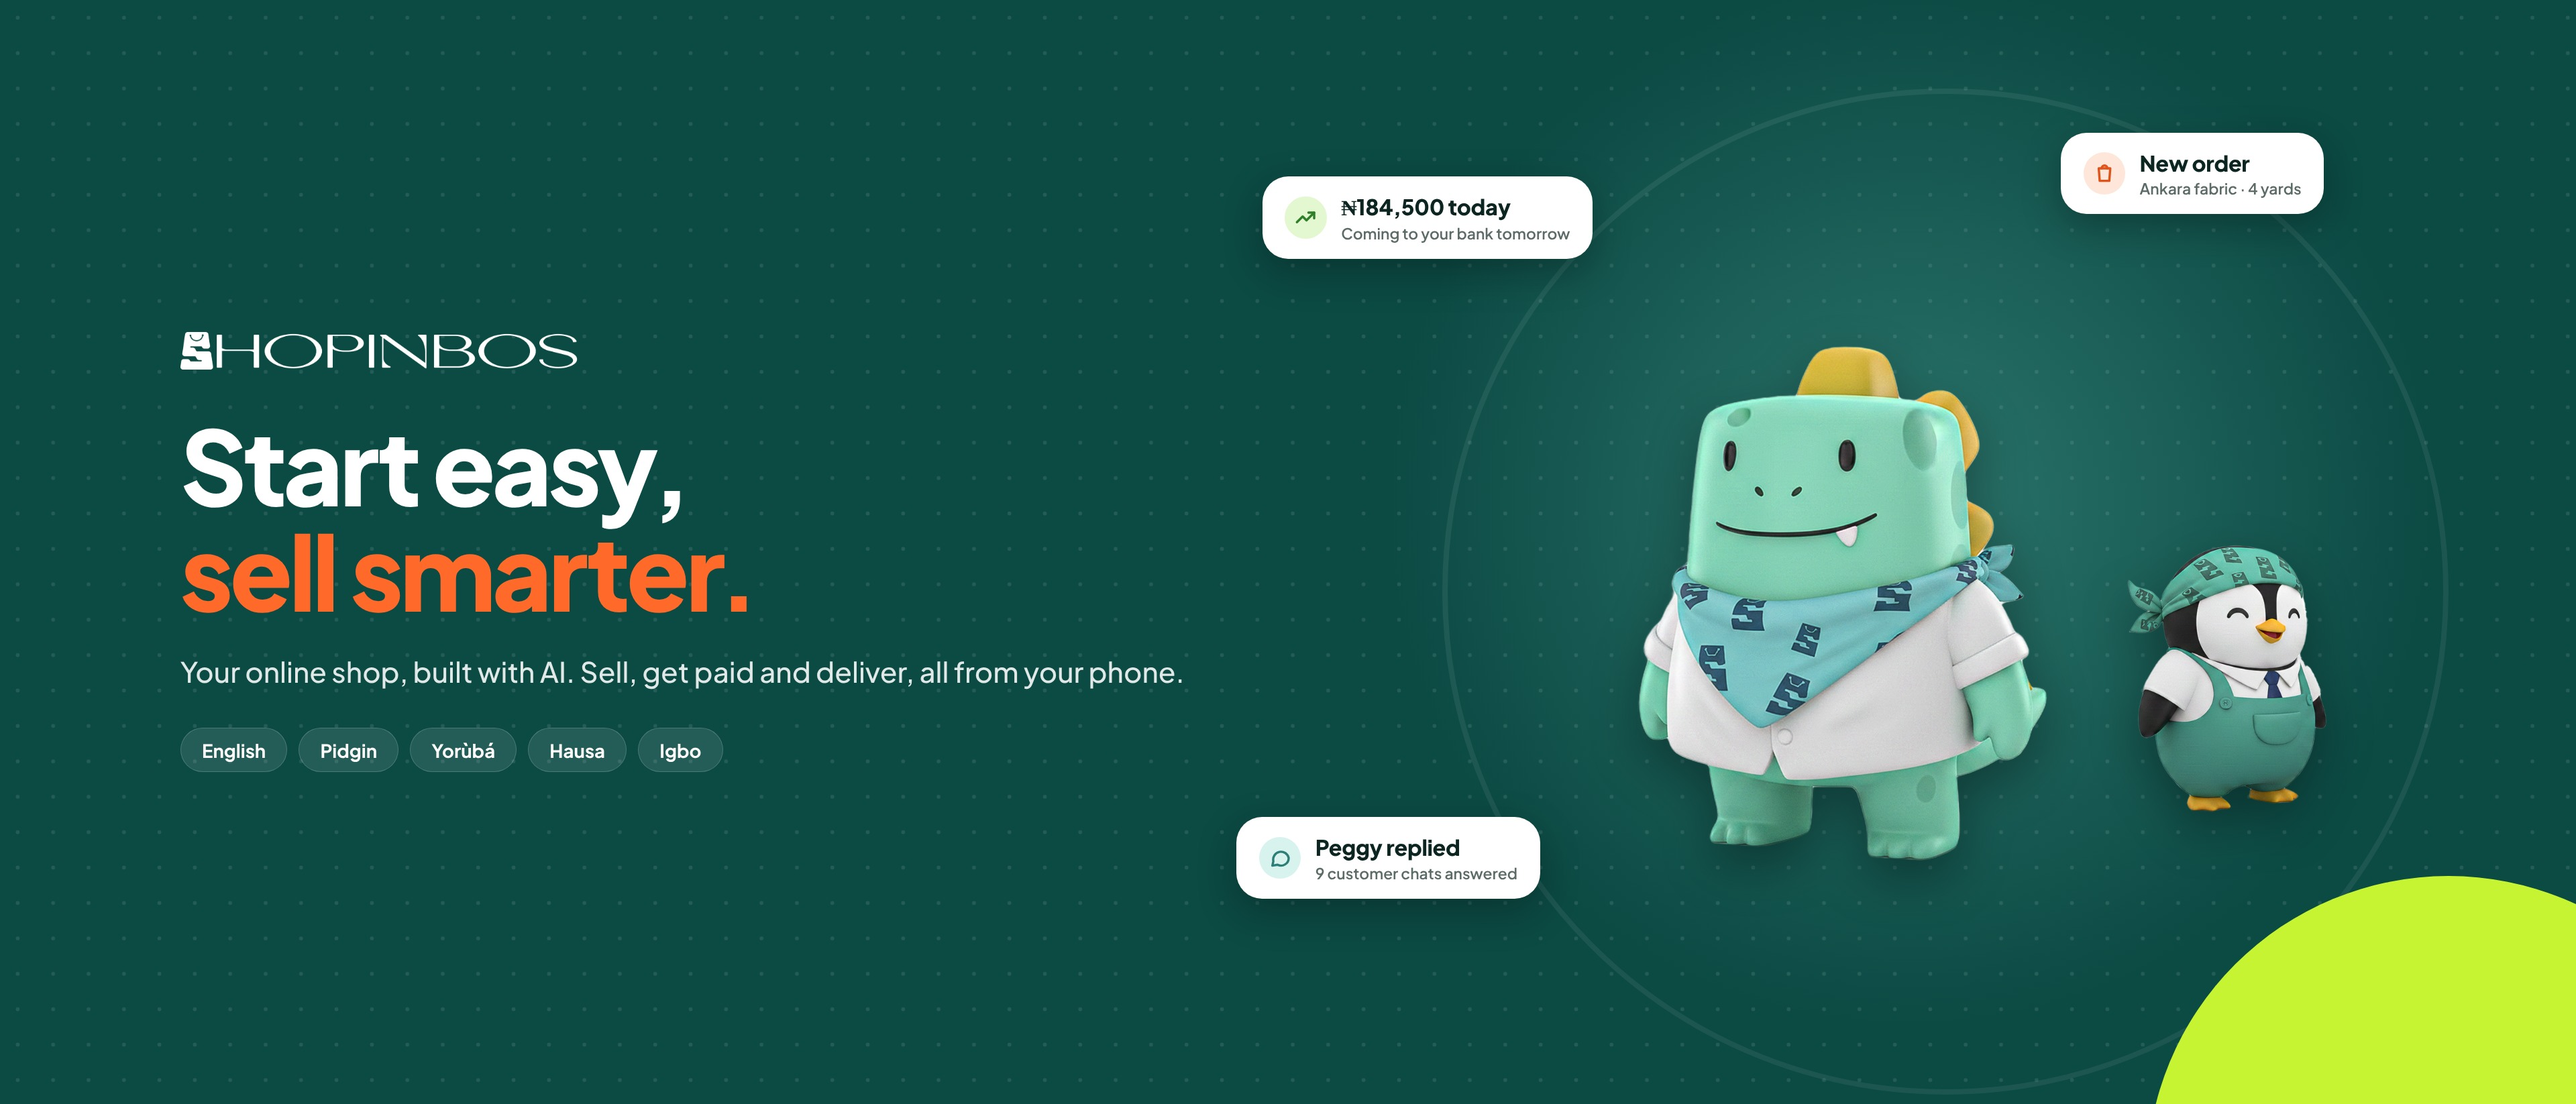
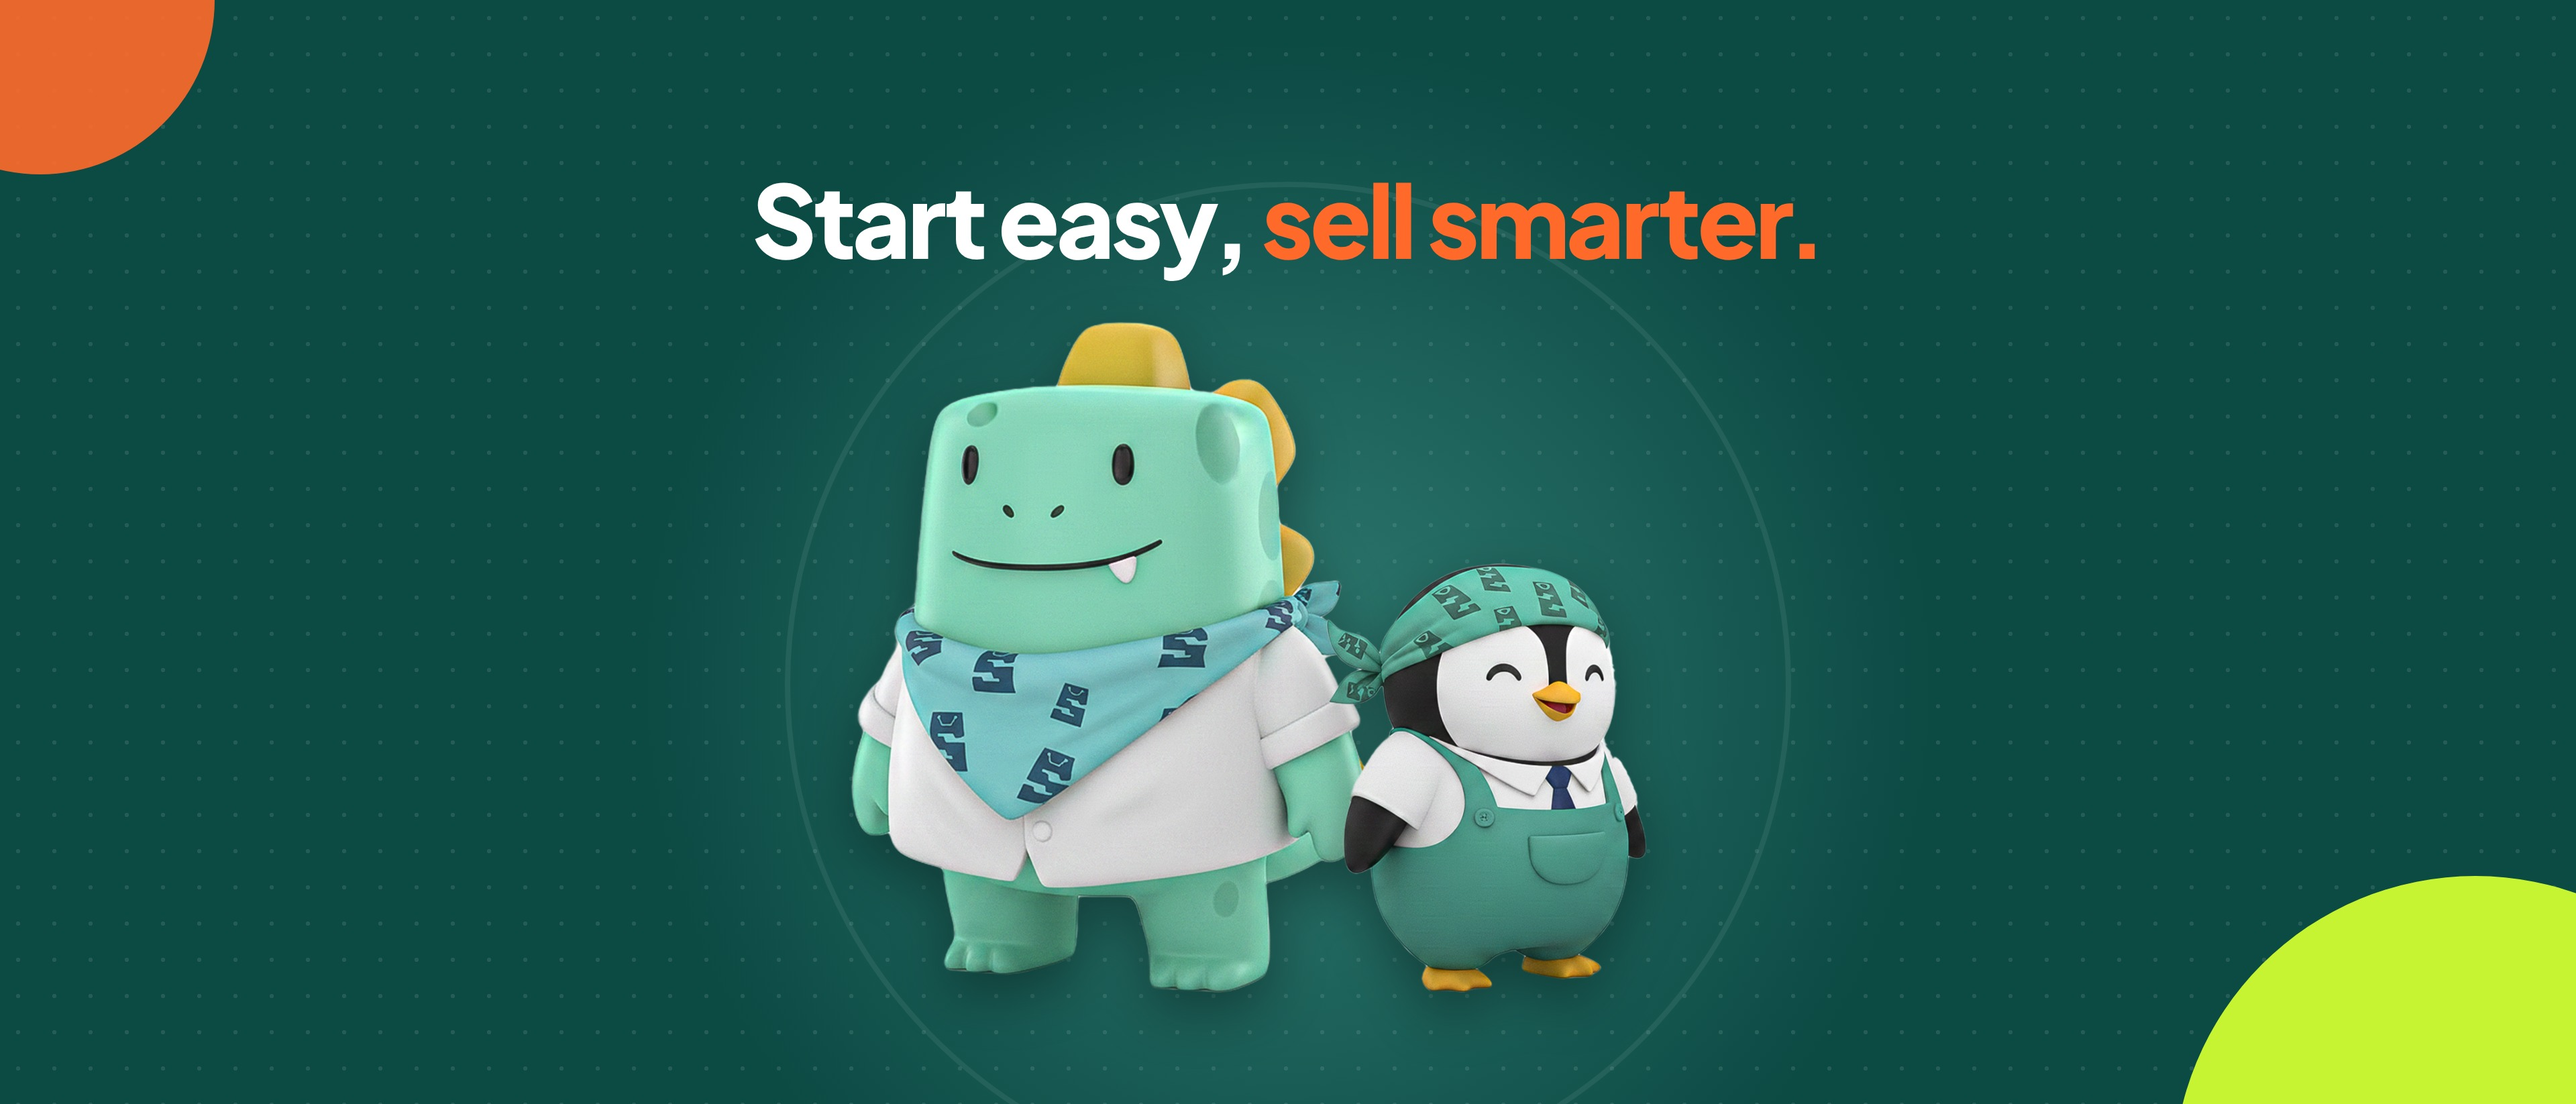
Rework App Store creative assets to follow Apple's asset guidance
Header: one centred idea (headline and mascots) and no prices. Search
results: three real app screens. Both are rendered from HTML by render.js.

Claude-Session: https://claude.ai/code/session_01Wc33bz48fMsssA7Hm89gzY

diff --git a/docs/app-store/creative/render.js b/docs/app-store/creative/render.js
@@ -1,24 +1,31 @@
-const {chromium}=require('playwright');const fs=require('fs');
-// Usage, from the repo root: node docs/app-store/creative/render.js <scratch dir with a/rex-1.png and a/peggy-3.png (cropped from public/brand/mascots)> <out dir>
-// Then convert the PNGs to JPG (no alpha) for App Store Connect.
-const S=process.argv[2], OUT=process.argv[3];
-const base=fs.readFileSync(__dirname+'/page.html','utf8').replace('REX','file://'+S+'/a/rex-1.png').replace('PEG','file://'+S+'/a/peggy-3.png');
-// u = 1% of height-ish unit; all positions as fractions of W/H
-const variants={
- 'header-3840x1646':{w:3840,h:1646,u:24,l:'7%',cw:'44%',
-  css:`#glow{width:1700px;height:1700px;left:52%;top:-6%}#ring{width:1500px;height:1500px;left:56%;top:8%}#lime{width:900px;height:900px;right:-260px;bottom:-560px}
-  #rex{height:1200px;left:56%;top:17%}#peg{height:780px;left:76.5%;top:38%}
-  #c1{left:49%;top:16%}#c2{left:80%;top:12%}#c3{left:48%;top:74%}`},
- 'search-results-3840x2560':{w:3840,h:2560,u:34,l:'7%',cw:'46%',
-  css:`#glow{width:2400px;height:2400px;left:46%;top:-10%}#ring{width:2100px;height:2100px;left:52%;top:10%}#lime{width:1300px;height:1300px;right:-400px;bottom:-800px}
-  #rex{height:1500px;left:53%;top:25%}#peg{height:980px;left:76%;top:42%}
-  #c1{left:52%;top:13%}#c2{left:78%;top:20%}#c3{left:51%;top:80%}`},
-};
-(async()=>{const b=await chromium.launch();
-for(const [name,v] of Object.entries(variants)){
- const p=await b.newPage({viewport:{width:v.w,height:v.h}});
- const html=base.replace('</style>',`:root{--w:${v.w}px;--h:${v.h}px;--u:${v.u}px;--l:${v.l};--cw:${v.cw}}${v.css}</style>`);
- fs.writeFileSync(OUT+'/'+name+'.html',html);
- await p.goto('file://'+OUT+'/'+name+'.html');await p.waitForTimeout(500);
- await p.screenshot({path:OUT+'/'+name+'.png'});await p.close();}
-await b.close();})();
+// Makes the App Store creative assets (App Store Connect › the version › Header / Search Results) from
+// header.html and search-results.html. Run from the repo root after changing either page or the screenshots:
+//   node docs/app-store/creative/render.js
+const { chromium } = require('playwright');
+const { execFileSync } = require('child_process');
+const path = require('path');
+
+const PAGES = [
+  ['header.html', 3840, 1646, 'header-3840x1646'],
+  ['search-results.html', 3840, 2560, 'search-results-3840x2560'],
+];
+
+(async () => {
+  const browser = await chromium.launch();
+  for (const [page, width, height, name] of PAGES) {
+    const tab = await browser.newPage({ viewport: { width, height } });
+    await tab.goto('file://' + path.join(__dirname, page));
+    await tab.waitForLoadState('networkidle');
+    const png = path.join(__dirname, name + '.png');
+    await tab.screenshot({ path: png });
+    await tab.close();
+    // Apple rejects alpha channels: save as RGB JPEG.
+    execFileSync('python3', ['-c', `from PIL import Image
+im = Image.open(${JSON.stringify(png)}).convert('RGB')
+im.save(${JSON.stringify(png.replace(/\.png$/, '.jpg'))}, quality=92)
+if ${JSON.stringify(name)} == 'search-results-3840x2560':
+    im.resize((1920, 1280), Image.LANCZOS).save(${JSON.stringify(path.join(__dirname, 'search-results-1920x1280.jpg'))}, quality=92)
+import os; os.remove(${JSON.stringify(png)})`]);
+  }
+  await browser.close();
+})();

diff --git a/docs/app-store/creative/header.html b/docs/app-store/creative/header.html
@@ -1,0 +1,20 @@
+<!doctype html><html><head><meta charset="utf-8"><style>
+@font-face{font-family:Jak;src:url(../../../public/fonts/plus-jakarta-sans-latin-wght-normal.woff2);font-weight:200 800}
+*{margin:0;box-sizing:border-box}
+html,body{width:3840px;height:1646px;overflow:hidden}
+body{font-family:Jak;background:#0C4A44;position:relative;color:#fff}
+.dots{position:absolute;inset:0;background-image:radial-gradient(rgba(255,255,255,.10) 3px,transparent 3.4px);background-size:54px 54px}
+.glow{position:absolute;left:50%;top:62%;width:2200px;height:2200px;transform:translate(-50%,-50%);border-radius:50%;background:radial-gradient(circle,rgba(115,216,200,.34),rgba(115,216,200,0) 62%)}
+.ring{position:absolute;left:50%;top:62%;width:1500px;height:1500px;transform:translate(-50%,-50%);border-radius:50%;border:8px solid rgba(255,255,255,.07)}
+.lime{position:absolute;border-radius:50%;background:#C6F432;width:900px;height:900px;right:-300px;bottom:-560px}
+.lime2{position:absolute;border-radius:50%;background:#FF6A2B;width:520px;height:520px;left:-200px;top:-260px;opacity:.9}
+h1{position:absolute;left:0;right:0;top:250px;text-align:center;font-weight:800;font-size:150px;line-height:1;letter-spacing:-.035em}
+h1 span{color:#FF6A2B}
+.m{position:absolute;filter:drop-shadow(0 30px 40px rgba(0,0,0,.35))}
+#rex{height:1000px;left:50%;top:480px;transform:translateX(-82%)}
+#peg{height:640px;left:50%;top:840px;transform:translateX(12%)}
+</style></head><body>
+<div class="dots"></div><div class="glow"></div><div class="ring"></div><div class="lime"></div><div class="lime2"></div>
+<h1>Start easy, <span>sell smarter.</span></h1>
+<img class="m" id="rex" src="mascots/rex.png"><img class="m" id="peg" src="mascots/peggy.png">
+</body></html>

diff --git a/docs/app-store/creative/search-results.html b/docs/app-store/creative/search-results.html
@@ -1,0 +1,8 @@
+<!doctype html><html><head><meta charset="utf-8"><style>
+*{margin:0;box-sizing:border-box}
+html,body{width:3840px;height:2560px;overflow:hidden}
+body{background:#0C4A44;display:flex;gap:48px;padding:60px}
+img{flex:1;min-width:0;height:100%;object-fit:cover;object-position:50% 100%;border-radius:64px}
+</style></head><body>
+<img src="../screenshots/iphone-6.9/01-onb.jpg"><img src="../screenshots/iphone-6.9/04-chats.jpg"><img src="../screenshots/iphone-6.9/08-delivery.jpg">
+</body></html>

diff --git a/docs/app-store/README.md b/docs/app-store/README.md
@@ -135,5 +135,5 @@ python3 docs/app-store/make-screenshots.py docs/play-store/listing/screenshots d
 | `screenshots/iphone-6.9/` | 7 screenshots, 1320×2868 |
 | `review-notes.txt` | App Review notes and demo account |
 | `app-privacy.md` | App Privacy answers |
-| `creative/` | Header and Search Results assets, and the page + `render.js` that make them |
+| `creative/` | Header and Search Results assets; `header.html`, `search-results.html` and `render.js` make them (`node docs/app-store/creative/render.js`). Apple's rules for these: no prices, URLs or © symbols, key content centred, one clear idea in the header, real app screens in search results. |
 | `make-screenshots.py` | Makes the iPhone screenshots from the Play ones |
